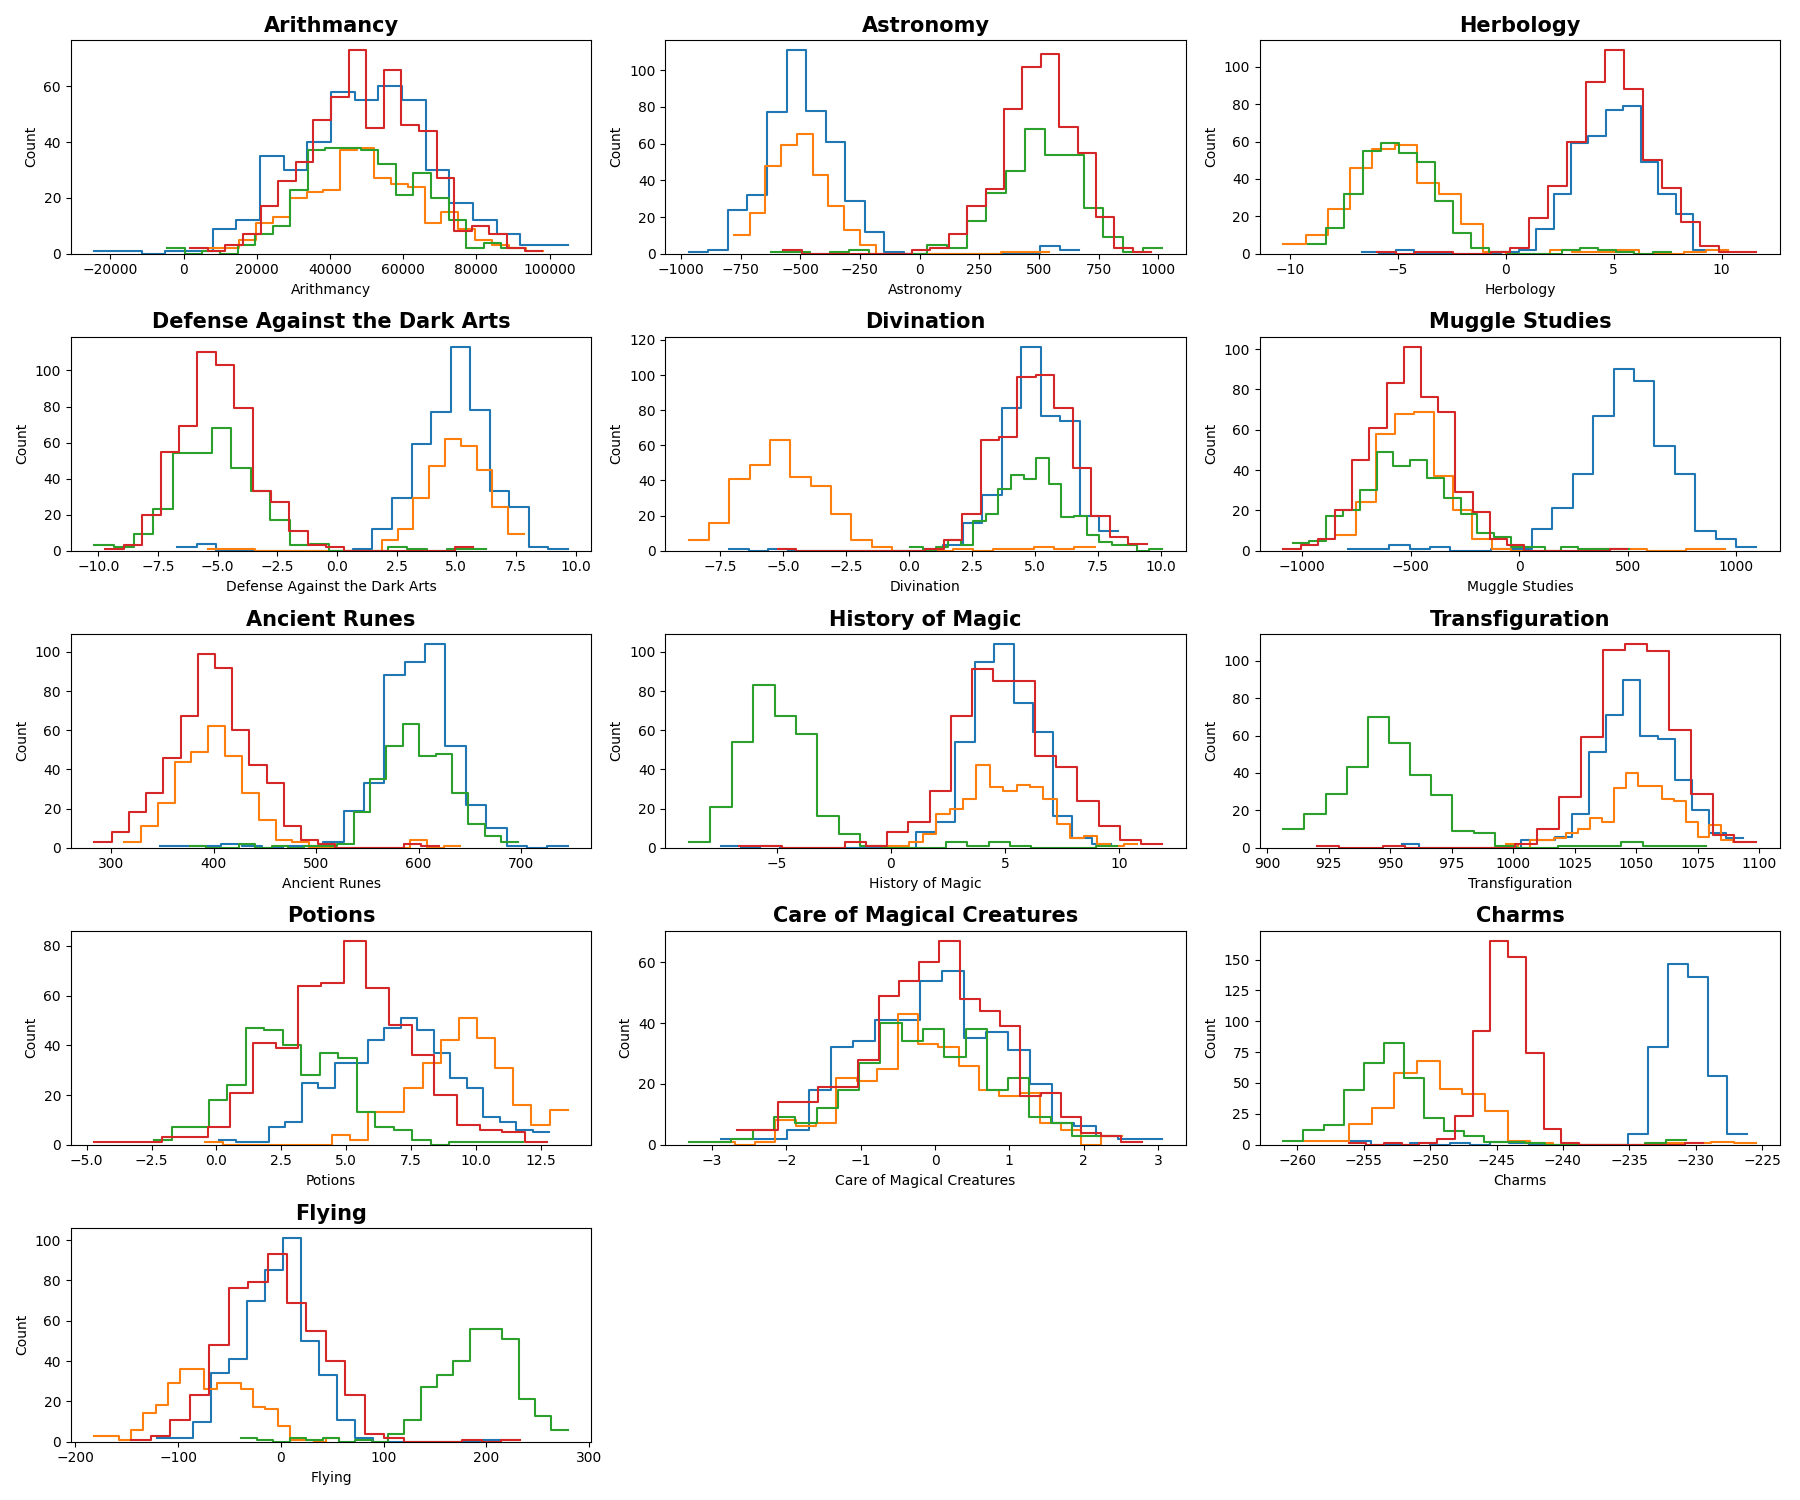
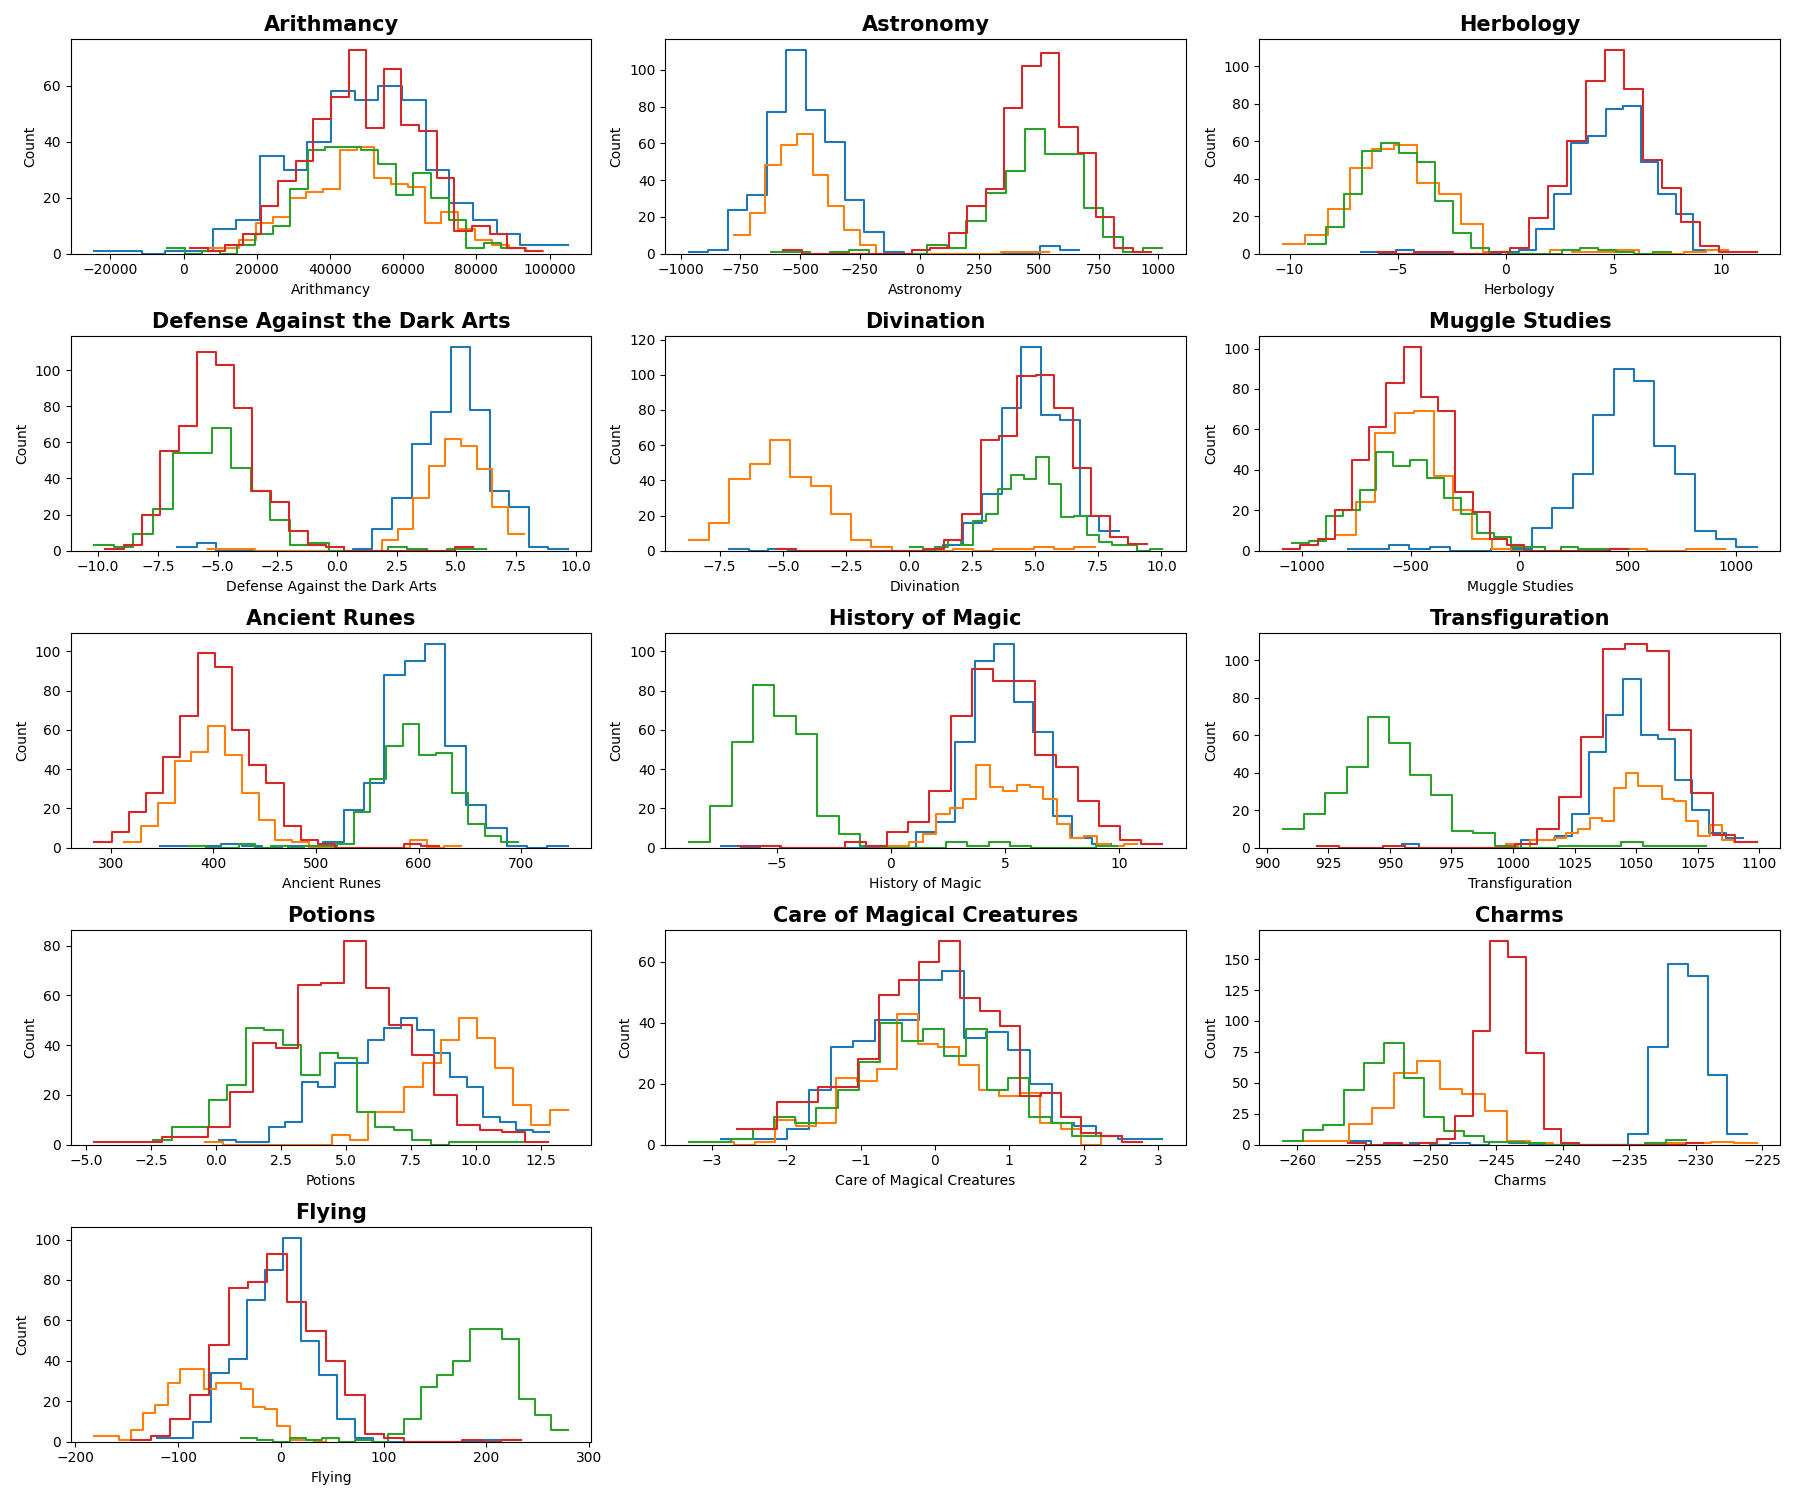
corrections main

diff --git a/package_model/logreg_train.py b/package_model/logreg_train.py
@@ -3,6 +3,9 @@
 import pandas as pd
 import numpy as np
 import matplotlib.pyplot as plt
+import sys
+from pathlib import Path
+
 
 # from package_model.class_MyLogiR_1_vs_Rest import MyLogiR_1_vs_Rest
 try:
@@ -92,26 +95,61 @@ def ft_train(df_train, col_shortl, path_output, path_output_weights):
 
 def main(path_file, path_output, path_output_weights):
 
-    df_train = pd.read_csv(path_file, sep = ',', header=0).drop(columns=['Index'])
-    col_shortl = [col for col in df_train.columns if df_train[col].dtype in ['float64', 'int64']]
+    # Lecture du dataset
+    try:
+        df_train = pd.read_csv(path_file, sep=",", header=0)
+    except FileNotFoundError:
+        print(f"Error: file '{path_file}' not found.")
+        return
+    except Exception as e:
+        print(f"Error: unable to read '{path_file}': {e}")
+        return
 
-    # correl(Defense Against the Dark Arts vs Astronomy) == -1 => on ne garde que astronomy
-    col_shortl = [col for col in col_shortl if col != "Defense Against the Dark Arts"]
+    # Vérification de la colonne cible
+    if "Hogwarts House" not in df_train.columns:
+        print("Error: column 'Hogwarts House' is missing from the dataset.")
+        return
 
-    print(ft_train(df_train, col_shortl, path_output, path_output_weights))
+    if df_train["Hogwarts House"].isna().any():
+        print("Error: column 'Hogwarts House' contains missing values.")
+        return
 
-    return
+
+    # Suppression de l'index
+    if "Index" in df_train.columns:
+        df_train = df_train.drop(columns=["Index"])
+
+    # Sélection des colonnes numériques
+    col_shortl = [
+        col for col in df_train.columns
+        if df_train[col].dtype in ["float64", "int64"]
+    ]
+
+    # Defense Against the Dark Arts est parfaitement corrélée
+    # avec Astronomy, on ne garde donc qu'Astronomy.
+    if "Defense Against the Dark Arts" in col_shortl:
+        col_shortl.remove("Defense Against the Dark Arts")
+
+    print(ft_train(
+        df_train,
+        col_shortl,
+        path_output,
+        path_output_weights
+    ))
 
 
 if __name__ == "__main__":
 
-    # Commande a lancer dans le terminal:
-    # python -m package_model.logreg_train
+    # Usage:
+    # python logreg_train.py dataset_train.csv
 
-    path_train = '../datasets/dataset_train.csv'
-    path_test = '../datasets/dataset_test.csv'
+    if len(sys.argv) != 2:
+        print("Usage: python logreg_train.py dataset_train.csv")
+        sys.exit(1)
 
-    path_output = "../res/model_logreg.pkl"
-    path_output_weights = "../res/logreg_weights.csv"
+    path_train = Path(sys.argv[1])
+
+    path_output = Path("res") / "model_logreg.pkl"
+    path_output_weights = Path("res") / "logreg_weights.csv"
 
     main(path_train, path_output, path_output_weights)

diff --git a/package_model/logreg_predict.py b/package_model/logreg_predict.py
@@ -2,6 +2,8 @@
 
 import pandas as pd
 import numpy as np
+import sys
+from pathlib import Path
 
 
 def ft_pred(df_test, df_weights, path_output):
@@ -77,19 +79,60 @@ def ft_pred(df_test, df_weights, path_output):
 
 def main(path_test, path_weights, path_output):
 
-    df_test = pd.read_csv(path_test, sep=',', header=0).drop(columns=['Index'])
+    # Lecture du dataset test
+    try:
+        df_test = pd.read_csv(path_test, sep=",", header=0)
+    except FileNotFoundError:
+        print(f"Error: file '{path_test}' not found.")
+        return
+    except Exception as e:
+        print(f"Error: unable to read '{path_test}': {e}")
+        return
 
-    df_weights = pd.read_csv(path_weights)
+    # Vérification de l'Index
+    if "Index" not in df_test.columns:
+        print("Error: column 'Index' is missing from the test dataset.")
+        return
 
-    # col_shortl = [col.replace("theta_", "", 1) for col in df_weights.columns if col.startswith("theta_") and col != "theta_0"]
+    # Suppression de l'Index
+    df_test = df_test.drop(columns=["Index"])
 
+    # Lecture des poids
+    try:
+        df_weights = pd.read_csv(path_weights)
+    except FileNotFoundError:
+        print(f"Error: weights file '{path_weights}' not found.")
+        return
+    except Exception as e:
+        print(f"Error: unable to read '{path_weights}': {e}")
+        return
+
+    # Vérification des poids
+    theta_columns = [
+        col for col in df_weights.columns
+        if col.startswith("theta_")
+    ]
+
+    if not theta_columns:
+        print("Error: no 'theta_' columns found in the weights file.")
+        return
+
+    # Prédiction
     ft_pred(df_test, df_weights, path_output)
 
 
 if __name__ == "__main__":
 
-    path_test = '../datasets/dataset_test.csv'
-    path_weights = '../res/logreg_weights.csv'
-    path_output = '../res/houses.csv'
+    # Usage:
+    # python logreg_predict.py dataset_test.csv
+
+    if len(sys.argv) != 2:
+        print("Usage: python logreg_predict.py dataset_test.csv")
+        sys.exit(1)
+
+    path_test = Path(sys.argv[1])
+
+    path_weights = Path("res") / "logreg_weights.csv"
+    path_output = Path("res") / "houses.csv"
 
     main(path_test, path_weights, path_output)

diff --git a/package_describe/describe.py b/package_describe/describe.py
@@ -52,6 +52,8 @@ def ft_max(list_nombre):
 
 def mean(list_nombre):
     n = len(list_nombre)
+    if n == 0:
+        return None
     res = sum(x for x in list_nombre) / n
 
     return res
@@ -59,6 +61,8 @@ def mean(list_nombre):
 
 def var(list_nombre):
     n = len(list_nombre)
+    if n == 0:
+            return None
     moy = sum(x for x in list_nombre) / n
     res = sum((x - moy)**2 for x in list_nombre) / n
 
@@ -67,13 +71,19 @@ def var(list_nombre):
 
 def std(list_nombre):
     res = var(list_nombre)
+    if res == None:
+        return None
     res = res**0.5
 
     return res
 
 
 def median(list_nombre):
+
     n = len(list_nombre)
+
+    if n  == 0:
+        return None, None
     if n == 1:
         position = 0
         mediane = list_nombre[position]
@@ -94,8 +104,9 @@ def median(list_nombre):
 
 def quartile(list_nombre):
     n = len(list_nombre)
+
     if n <= 3:
-        res = "not enough elements in list"
+        res = [None, None]
 
     else:
         list_nombre = tri_bulle(list_nombre)
@@ -104,11 +115,13 @@ def quartile(list_nombre):
         right = list_nombre[position:]
         position1 = median(left)[1]
         position2 = median(right)[1]
+
         res = []
         res.append(float(left[position1]))
         res.append(float(right[position2]))
 
     return res
+
 
 
 def ft_describe(df_temp):
@@ -128,7 +141,7 @@ def ft_describe(df_temp):
         # Stats
         count_val = ft_count(col_clean)
         # missing_val = ft_count(col) - count_val
-        missing_val = round(1 - count_val / ft_count(col), 3)
+        missing_val = (round(1 - count_val / ft_count(col), 3) * 100)
         mean_val = mean(col_clean)
         std_val = std(col_clean)
         min_val = ft_min(col_clean)

diff --git a/package_describe/histogram.py b/package_describe/histogram.py
@@ -4,6 +4,10 @@ import pandas as pd
 import seaborn as sns
 import matplotlib.pyplot as plt
 import math
+from pathlib import Path
+
+BASE_DIR = Path(__file__).resolve().parent.parent
+
 
 try:
     from package_describe.describe import ft_min, ft_max, mean
@@ -173,15 +177,9 @@ def ft_histogram(df_temp, path_output):
 
 def main(path_file):
 
-    df_train = pd.read_csv(path_file, sep=',', header=0).drop(columns=['Index'])
+    df_train = pd.read_csv(path_file, sep=",", header=0).drop(columns=["Index"])
 
-    path_output = "../res/hist.png"
-
-    # col_shortl = [col for col in df_train.columns
-    #     if df_train[col].dtype in ['float64', 'int64']
-    # ]
-
-    # ft_homogeneous(df_train, col_shortl)
+    path_output = BASE_DIR / "res" / "hist.png"
 
     print(ft_histogram(df_train, path_output))
 
@@ -190,7 +188,8 @@ def main(path_file):
 
 if __name__ == "__main__":
 
-    path_train = '../datasets/dataset_train.csv'
-    path_test = '../datasets/dataset_test.csv'
+    path_train = BASE_DIR / "datasets" / "dataset_train.csv"
+    path_test = BASE_DIR / "datasets" / "dataset_test.csv"
 
     main(path_train)
+

diff --git a/package_describe/scatter_plot.py b/package_describe/scatter_plot.py
@@ -3,6 +3,9 @@
 import pandas as pd
 import seaborn as sns
 import matplotlib.pyplot as plt
+from pathlib import Path
+
+BASE_DIR = Path(__file__).resolve().parent.parent
 
 try:
     from package_describe.correlation import ft_correlation
@@ -43,11 +46,11 @@ def ft_scatter_plot(my_df, path_output):
 
     return "export scatter.png done"
 
-
 def main(path_file):
 
-    df_train = pd.read_csv(path_file, sep = ',', header=0).drop(columns=['Index'])
-    path_output = "../res/scatter.png"
+    df_train = pd.read_csv(path_file, sep=",", header=0).drop(columns=["Index"])
+
+    path_output = BASE_DIR / "res" / "scatter.png"
 
     print(ft_scatter_plot(df_train, path_output))
 
@@ -56,7 +59,8 @@ def main(path_file):
 
 if __name__ == "__main__":
 
-    path_train = '../datasets/dataset_train.csv'
-    path_test = '../datasets/dataset_test.csv'
+    path_train = BASE_DIR / "datasets" / "dataset_train.csv"
+    path_test = BASE_DIR / "datasets" / "dataset_test.csv"
 
     main(path_train)
+

diff --git a/package_describe/pair_plot.py b/package_describe/pair_plot.py
@@ -4,6 +4,9 @@ import pandas as pd
 # import numpy as np
 import seaborn as sns
 import matplotlib.pyplot as plt
+from pathlib import Path
+
+BASE_DIR = Path(__file__).resolve().parent.parent
 
 def ft_pair_plot(my_df, path_output):
 
@@ -41,8 +44,9 @@ def ft_pair_plot(my_df, path_output):
 
 def main(path_file):
 
-    df_train = pd.read_csv(path_file, sep = ',', header=0).drop(columns=['Index'])
-    path_output = "../res/pairplot.png"
+    df_train = pd.read_csv(path_file, sep=",", header=0).drop(columns=["Index"])
+
+    path_output = BASE_DIR / "res" / "pairplot.png"
 
     print(ft_pair_plot(df_train, path_output))
 
@@ -51,7 +55,8 @@ def main(path_file):
 
 if __name__ == "__main__":
 
-    path_train = '../datasets/dataset_train.csv'
-    path_test = '../datasets/dataset_test.csv'
+    path_train = BASE_DIR / "datasets" / "dataset_train.csv"
+    path_test = BASE_DIR / "datasets" / "dataset_test.csv"
 
     main(path_train)
+
